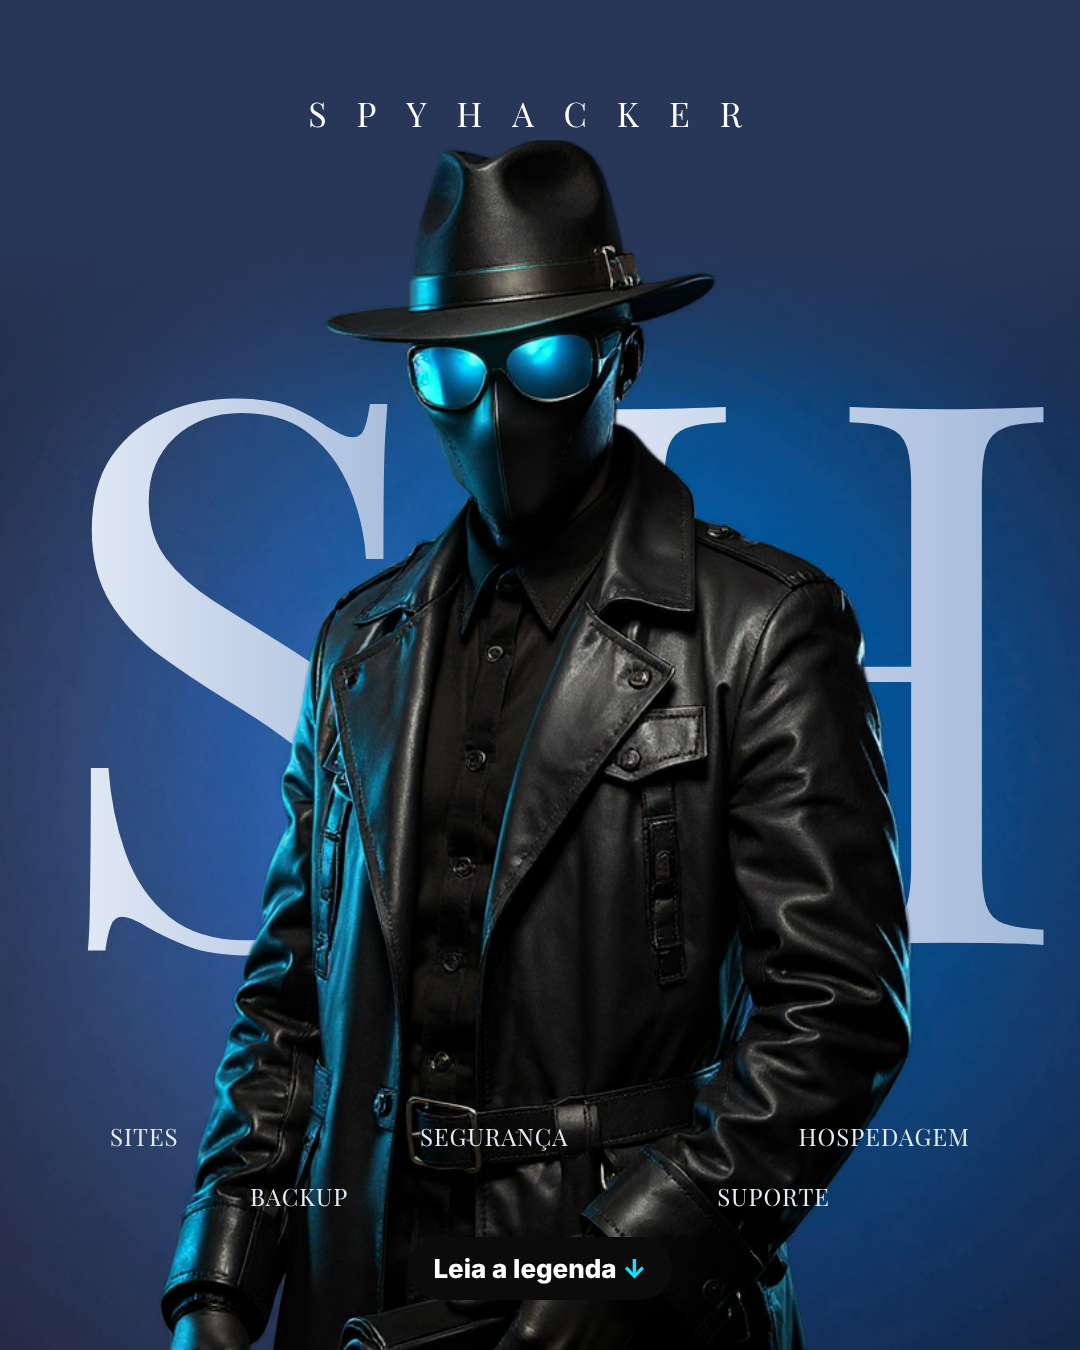
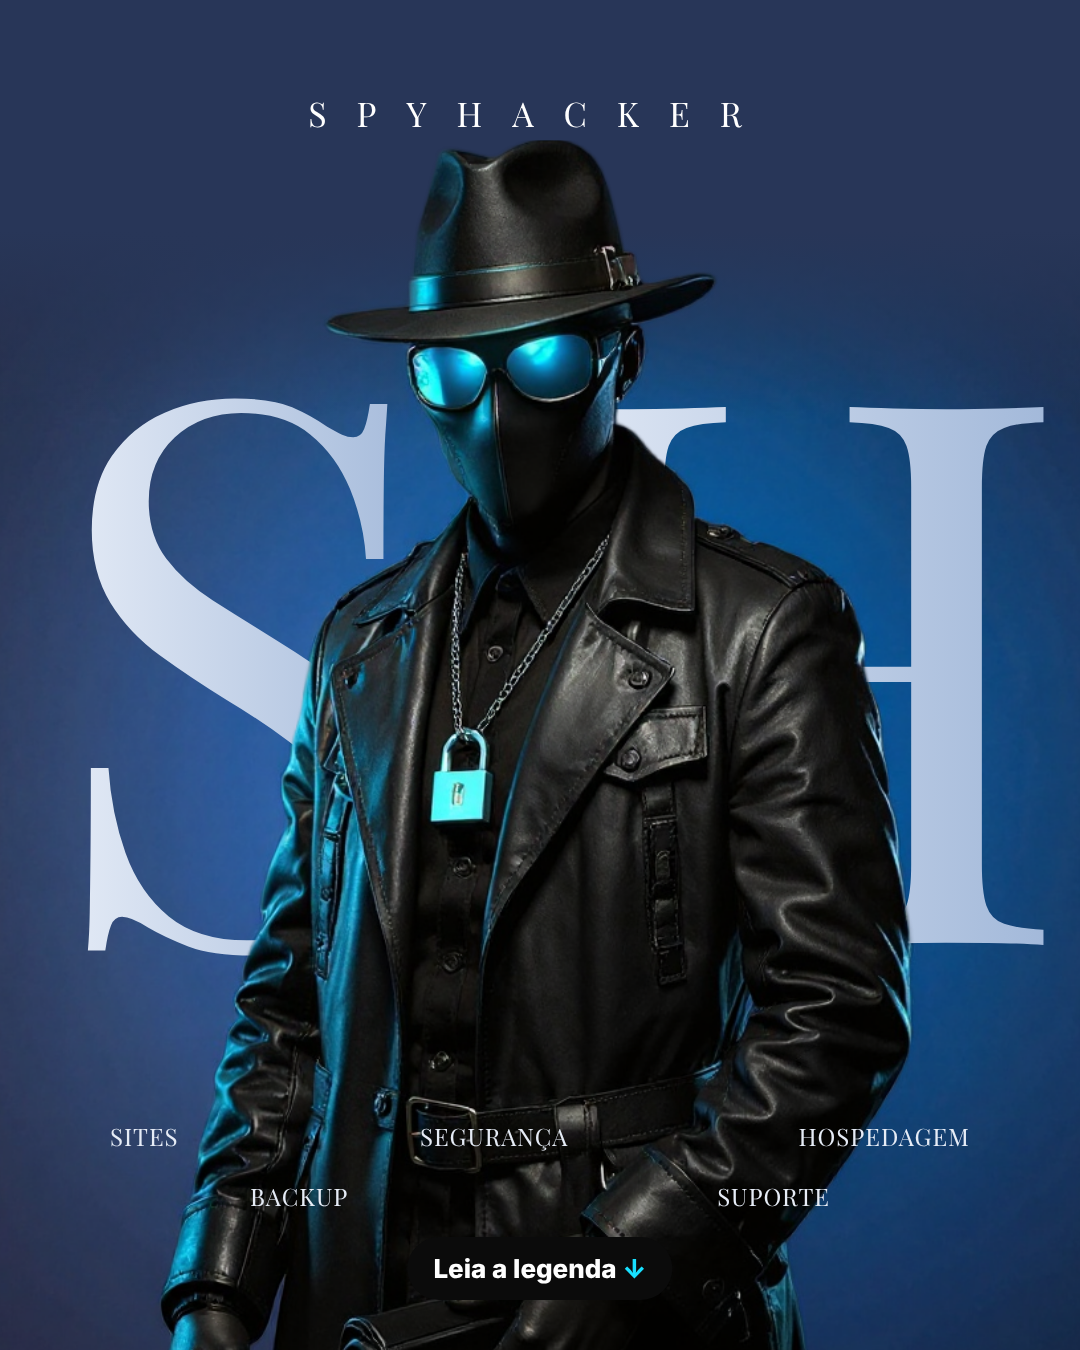
Feed estático: 2ª rodada 29 a 33 (mascote fiel em todos)
Claude-Session: https://claude.ai/code/session_017mkQW4f9RfZB1iSbiGkvms

diff --git a/banco/tpl-estatico/layout-30.html b/banco/tpl-estatico/layout-30.html
@@ -14,8 +14,8 @@ body{margin:0}#s{width:1080px;height:1350px;position:relative;overflow:hidden;ba
 .bg{position:absolute;inset:0;width:100%;height:100%;object-fit:cover}
 .cta{position:absolute;left:50%;transform:translateX(-50%);bottom:50px;font:800 26px I8;padding:16px 26px;border-radius:40px;white-space:nowrap;z-index:9}
 
-.a{position:absolute;left:110px;top:150px;font:800 64px/1 I8;color:#fff;letter-spacing:-1px}.a span{font-family:IL;font-weight:300}
-.b{position:absolute;left:0;right:0;top:230px;text-align:center;font:900 290px/1 M9;letter-spacing:-14px;background:linear-gradient(#b6ff5c,#2bd11a);-webkit-background-clip:text;-webkit-text-fill-color:transparent}
+.a{position:absolute;left:110px;top:150px;font:800 52px/1.05 I8;color:#0b0b0b;letter-spacing:-1px}.a span{font-family:IL;font-weight:300}
+.b{position:absolute;left:0;right:0;top:250px;text-align:center;font:900 270px/1 M9;letter-spacing:-12px;color:#0b0b0b}
 .cta{background:#7dff1a;color:#0b0b0b}
-</style></head><body><div id=s><img class=bg src="c30.png" style="top:540px;-webkit-mask-image:linear-gradient(transparent,#000 220px)"><div class=a>Dá uma<br>olhada <span>no que</span></div><div class=b>eu faço</div><img class=bg src="c30-cut.png" style="top:540px">
-<div class=cta>Leia a legenda ↓</div></div></body></html>
+</style></head><body><div id=s style="background:#AAFF03"><img src="c30b.png" style="position:absolute;left:-65px;top:270px;width:1210px;-webkit-mask-image:linear-gradient(transparent,#000 200px)"><div class=a>Dá uma<br>olhada <span>no que</span></div><div class=b>eu faço</div><img src="c30b-cut.png" style="position:absolute;left:-65px;top:270px;width:1210px">
+<div style="position:absolute;left:70px;right:70px;bottom:60px;height:80px;border:2px solid rgba(255,255,255,.7);border-radius:40px;background:rgba(0,0,0,.55);z-index:8"></div><div class=cta style="bottom:72px;background:#7dff1a;color:#0b0b0b">Leia a legenda ↓</div></div></body></html>

diff --git a/banco/tpl-estatico/layout-31.html b/banco/tpl-estatico/layout-31.html
@@ -19,9 +19,9 @@ body{margin:0}#s{width:1080px;height:1350px;position:relative;overflow:hidden;ba
 .L{position:absolute;font:400 760px/1 PF;background:linear-gradient(90deg,#e8eef8,#9fb6d8);-webkit-background-clip:text;-webkit-text-fill-color:transparent}
 .lb{position:absolute;font:400 24px PF;color:#e6ecf6;letter-spacing:1px}
 .cta{background:#0b0b0b;color:#fff}
-</style></head><body><div id=s><img class=bg src="c31.png" style="transform:scale(1.08) translateY(190px);transform-origin:50% 60%">
+</style></head><body><div id=s><img class=bg src="c31b.png" style="transform:scale(1.08) translateY(190px);transform-origin:50% 60%">
 <div style="position:absolute;left:0;right:0;top:0;height:420px;background:linear-gradient(#283658 55%,transparent)"></div><div class=top>SPYHACKER</div><div class=L style="left:40px;top:250px">S</div><div class=L style="left:500px;top:250px">H</div>
-<img class=bg src="c31-cut.png" style="transform:scale(1.08) translateY(190px);transform-origin:50% 60%">
+<img class=bg src="c31b-cut.png" style="transform:scale(1.08) translateY(190px);transform-origin:50% 60%">
 <div class=lb style="left:110px;top:1120px">SITES</div><div class=lb style="left:420px;top:1120px">SEGURANÇA</div><div class=lb style="right:110px;top:1120px">HOSPEDAGEM</div>
 <div class=lb style="left:250px;top:1180px">BACKUP</div><div class=lb style="right:250px;top:1180px">SUPORTE</div>
 <div class=cta>Leia a legenda <span style="color:#18e0ff">↓</span></div></div></body></html>

diff --git a/banco/tpl-estatico/layout-29.html b/banco/tpl-estatico/layout-29.html
@@ -15,9 +15,9 @@ body{margin:0}#s{width:1080px;height:1350px;position:relative;overflow:hidden;ba
 .cta{position:absolute;left:50%;transform:translateX(-50%);bottom:50px;font:800 26px I8;padding:16px 26px;border-radius:40px;white-space:nowrap;z-index:9}
 
 .a{position:absolute;left:0;right:0;top:880px;text-align:center;font:600 70px I8;color:#fff;letter-spacing:-2px;z-index:3}
-.b{position:absolute;left:0;right:0;top:950px;text-align:center;font:400 165px PM;color:#fff;transform:rotate(-4deg);z-index:3}
+.b{position:absolute;left:0;right:0;top:915px;text-align:center;font:400 165px PM;color:#fff;transform:rotate(-4deg);z-index:3}
 .c{position:absolute;left:0;right:0;bottom:130px;text-align:center;font:500 22px I;color:#ddd;letter-spacing:8px;z-index:3}
 .cta{background:#9dff3c;color:#0b2a10}
-</style></head><body><div id=s><img src="c29.png" style="position:absolute;left:0;top:-60px;width:1080px">
+</style></head><body><div id=s><img src="c29b.png" style="position:absolute;left:0;top:0;width:1080px">
 <div style="position:absolute;left:0;right:0;bottom:0;height:520px;background:linear-gradient(transparent,rgba(0,0,0,.75))"></div>
 <div class=a>Copie minha</div><div class=b>Estratégia</div><div class=c>NO FINAL TEM UM BÔNUS PRA VOCÊ.</div><div class=cta>Leia a legenda ↓</div></div></body></html>

diff --git a/banco/tpl-estatico/layout-33.html b/banco/tpl-estatico/layout-33.html
@@ -17,7 +17,7 @@ body{margin:0}#s{width:1080px;height:1350px;position:relative;overflow:hidden;ba
 .g{position:absolute;left:0;right:0;text-align:center;font:400 190px/1 A;letter-spacing:2px}
 .sub{position:absolute;left:0;right:0;top:505px;text-align:center;font:500 40px I;color:#222}.sub b{background:#ff2bd6;color:#fff;font-weight:500;padding:2px 10px}
 .cta{background:#111;color:#fff}
-</style></head><body><div id=s style="background:#EADEC8"><img src="c33.png" style="position:absolute;left:0;top:470px;width:1080px">
-<div style="position:absolute;left:0;right:0;top:0;height:640px;background:linear-gradient(rgba(232,224,210,1) 75%,rgba(232,224,210,0))"></div>
+</style></head><body><div id=s style="background:#EADEC8"><img src="c33b.png" style="position:absolute;left:-45px;top:230px;width:1170px">
+<div style="position:absolute;left:0;right:0;top:0;height:520px;background:linear-gradient(rgba(232,224,210,1) 70%,rgba(232,224,210,0))"></div>
 <div class=g style="top:100px;color:#e01aa8">SEJA</div><div class=g style="top:295px;color:#151515">VISTO</div>
-<div class=sub>No meio de tantos <b>perfis</b></div><div class=cta>Leia a legenda ↓</div></div></body></html>
+<div class=sub>no meio da <b>multidão</b></div><div class=cta>Leia a legenda ↓</div></div></body></html>

diff --git a/banco/tpl-estatico/layout-32.html b/banco/tpl-estatico/layout-32.html
@@ -14,9 +14,9 @@ body{margin:0}#s{width:1080px;height:1350px;position:relative;overflow:hidden;ba
 .bg{position:absolute;inset:0;width:100%;height:100%;object-fit:cover}
 .cta{position:absolute;left:50%;transform:translateX(-50%);bottom:50px;font:800 26px I8;padding:16px 26px;border-radius:40px;white-space:nowrap;z-index:9}
 
-#s{background:#ececec}
+#s{background:#F3F3F3}
 .t{position:absolute;left:0;right:0;top:880px;text-align:center;font:400 300px/1 A;color:#c99a1a;letter-spacing:2px;z-index:3}
 .s{position:absolute;left:0;right:0;top:1190px;text-align:center;font:500 40px I;color:#222;z-index:3}.s b{background:#c99a1a;color:#fff;font-weight:500;padding:0 8px}
 .cta{bottom:40px;background:none;color:#a07400;text-decoration:underline;text-underline-offset:8px;font-size:30px}
-</style></head><body><div id=s><img class=bg src="c32b.png" style="transform:scale(.92) translateY(-90px);transform-origin:50% 0">
+</style></head><body><div id=s><img src="c32c.png" style="position:absolute;left:115px;top:0;width:850px"><div style="position:absolute;right:0;top:0;width:260px;height:120px;background:#F3F3F3"></div>
 <div class=t>VENDAS</div><div class=s>para você aplicar no seu <b>negócio</b></div><div class=cta>Leia a legenda ↓</div></div></body></html>

diff --git a/conhecimento/agentes/designer/22-feed-estatico-quebra-de-padrao.md b/conhecimento/agentes/designer/22-feed-estatico-quebra-de-padrao.md
@@ -115,3 +115,4 @@ Arquivos em `banco/tpl-estatico/` (`ref-N`, `layout-N.html`, `teste-N.png`).
 - **31 · Letras gigantes** (007 Spyhacker): iniciais serifadas enormes atrás do mascote (recorte na frente), nome espaçado no topo, serviços em serifa pequena embaixo.
 - **32 · Estátua** (Marketing Raiz): busto de mármore com listras e borboletas douradas; palavra gigante condensada dourada embaixo + apoio com marca-texto. A IA insiste em pôr rosto humano no busto em vez da peça de xadrez (pendente).
 - **33 · Parado na multidão** (Seguidores em Alta): mascote nítido no meio de gente borrada em movimento; título em 2 cores condensado + apoio com marca-texto na cor da marca.
+- 2ª rodada 29 a 33: o mascote tem que vir EXATAMENTE como ele é (óculos, roupa, cordão), nunca uma versão genérica (pássaro sem óculos, busto de estátua sem o mascote). Fundo sem desenho quando a referência é lisa. Respeitar os tamanhos de texto da referência. Na cena de multidão, o mascote é pequeno no meio da multidão e o texto tem que fazer sentido com a cena ("SEJA VISTO no meio da multidão").
